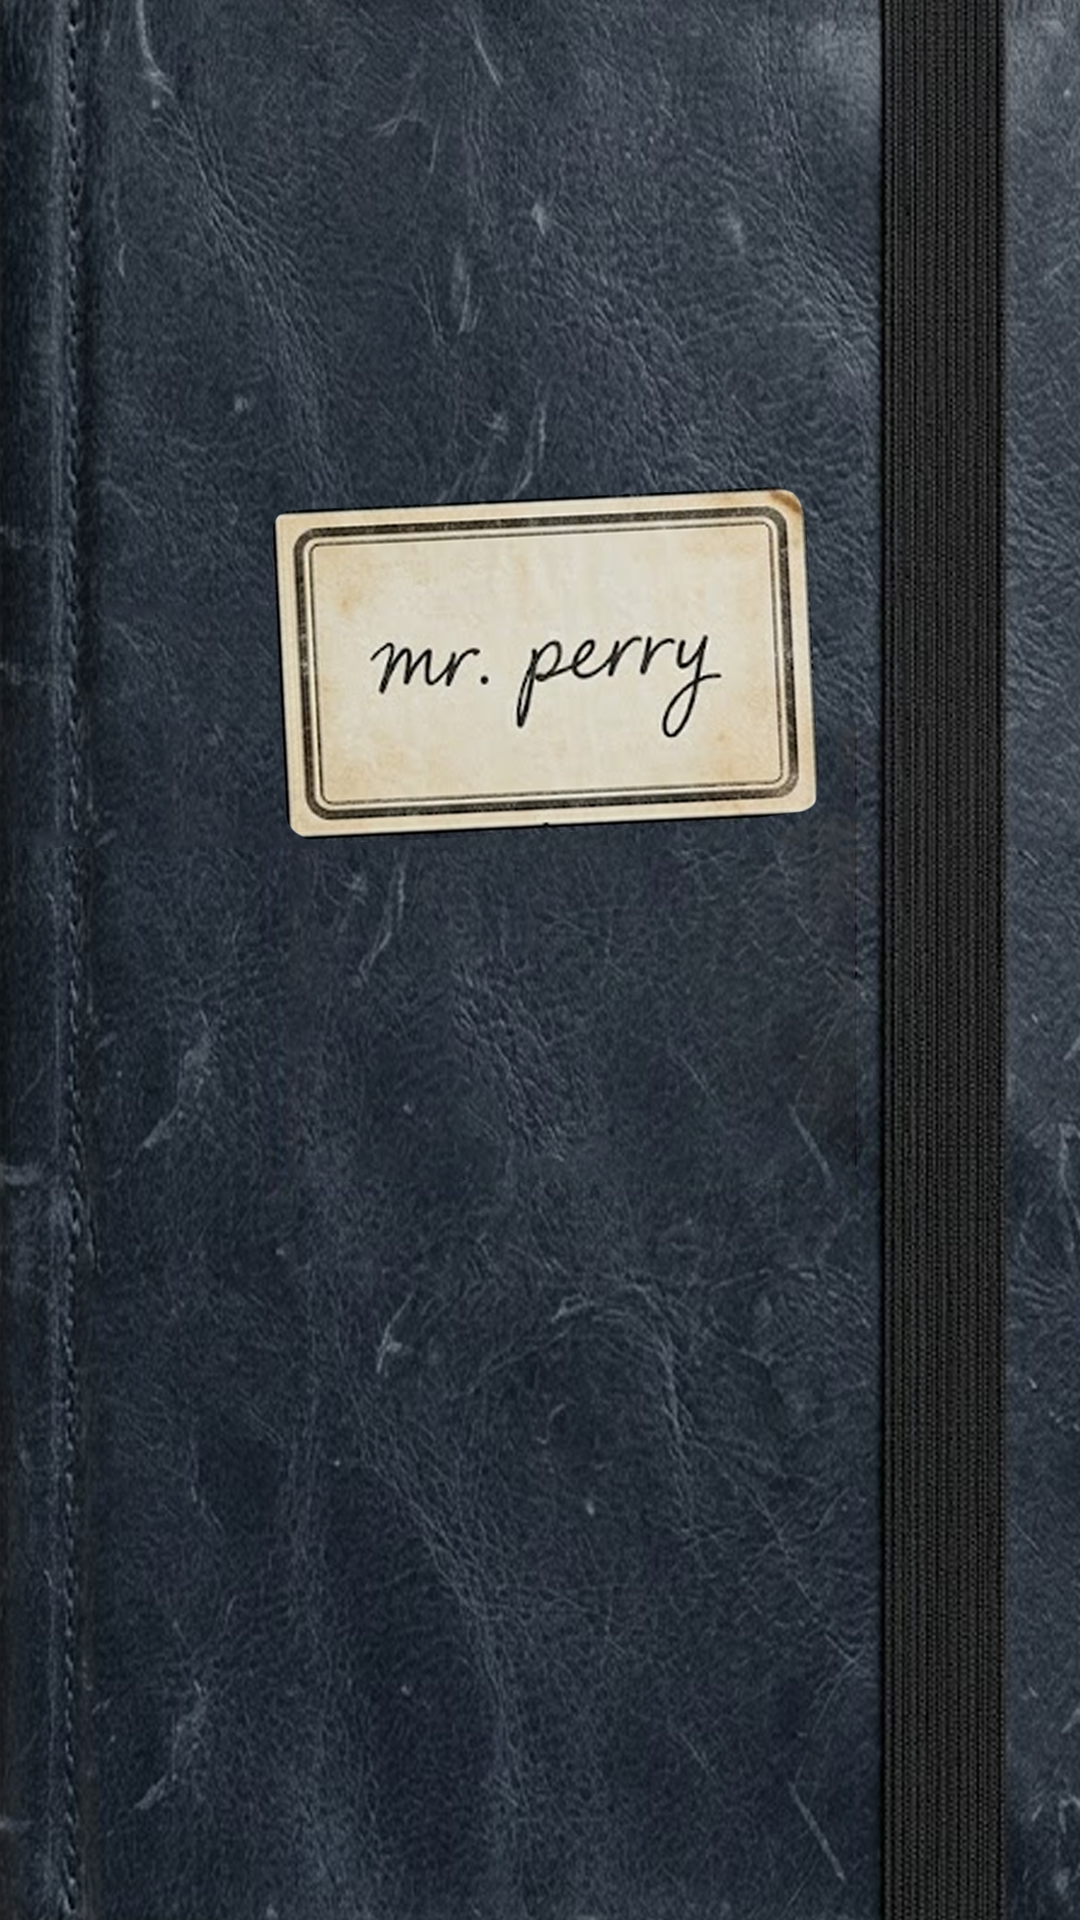
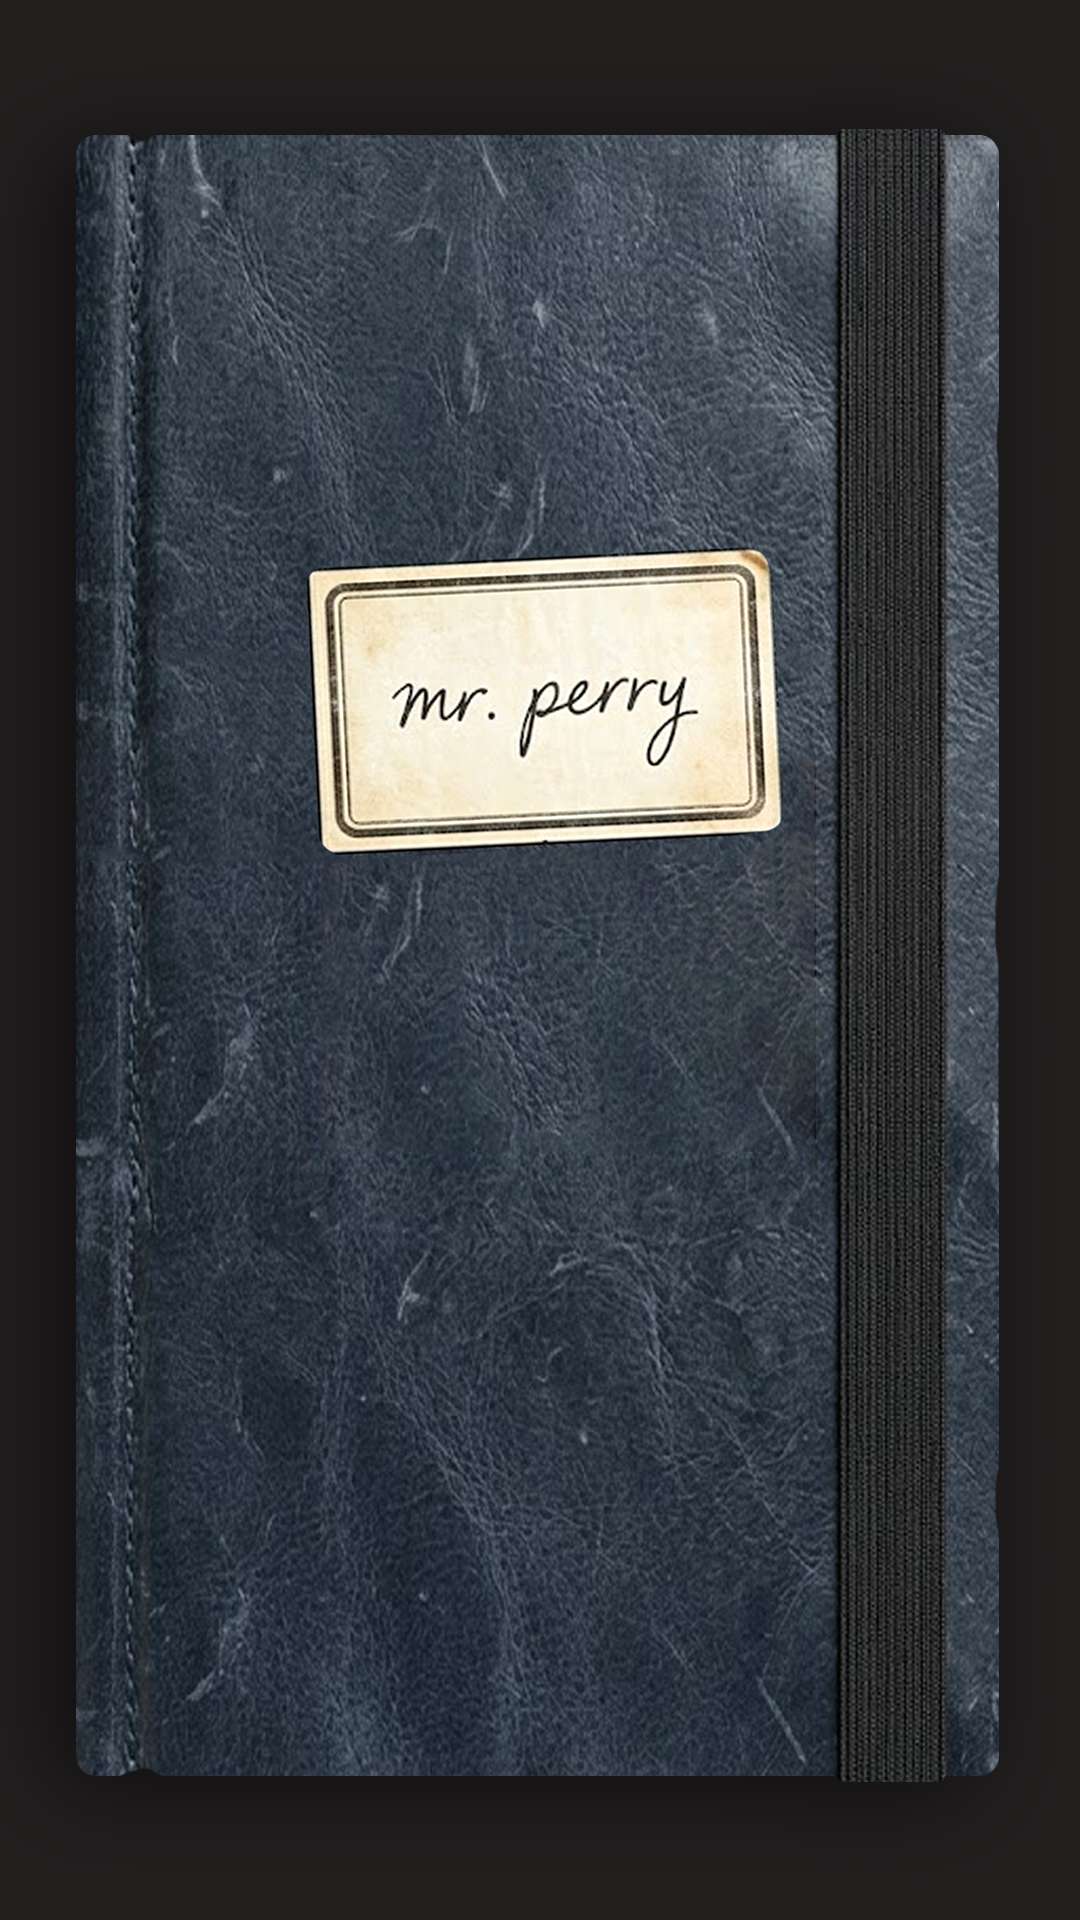
ssa

diff --git a/app.css b/app.css
@@ -132,7 +132,7 @@ body{
 /* figlio di .app: ancorato a left:0 del viewport, sbordando dal bordo sx della pagina.
    stretto e alto, come una linguetta che esce dal quaderno. */
 .note-btn{
-  position:absolute; left:0; bottom:120px; width:34px; height:72px; z-index:6;
+  position:absolute; left:5px; bottom:120px; width:34px; height:72px; z-index:6;
   background:var(--postit, var(--hl-pink)); border:0; cursor:pointer;
   border-radius:0 7px 7px 0; box-shadow:none; padding:0;
 }
@@ -294,7 +294,7 @@ body{
 /* ===================== BOOKMARK (apre tracking) ===================== */
 /* figlio di .app: ancorato a top:0 del viewport → sborda verso l'alto oltre il bordo della pagina */
 .bookmark{
-  position:absolute; top:0; right:28px; width:38px; height:62px; z-index:7; border:none; cursor:pointer;
+  position:absolute; top:8px; right:28px; width:38px; height:62px; z-index:7; border:none; cursor:pointer;
   background:var(--red); color:#fff; font-size:17px; padding:0;
   clip-path:polygon(0 0,100% 0,100% 100%,50% 80%,0 100%);
   box-shadow:1px 2px 4px rgba(0,0,0,.35);
